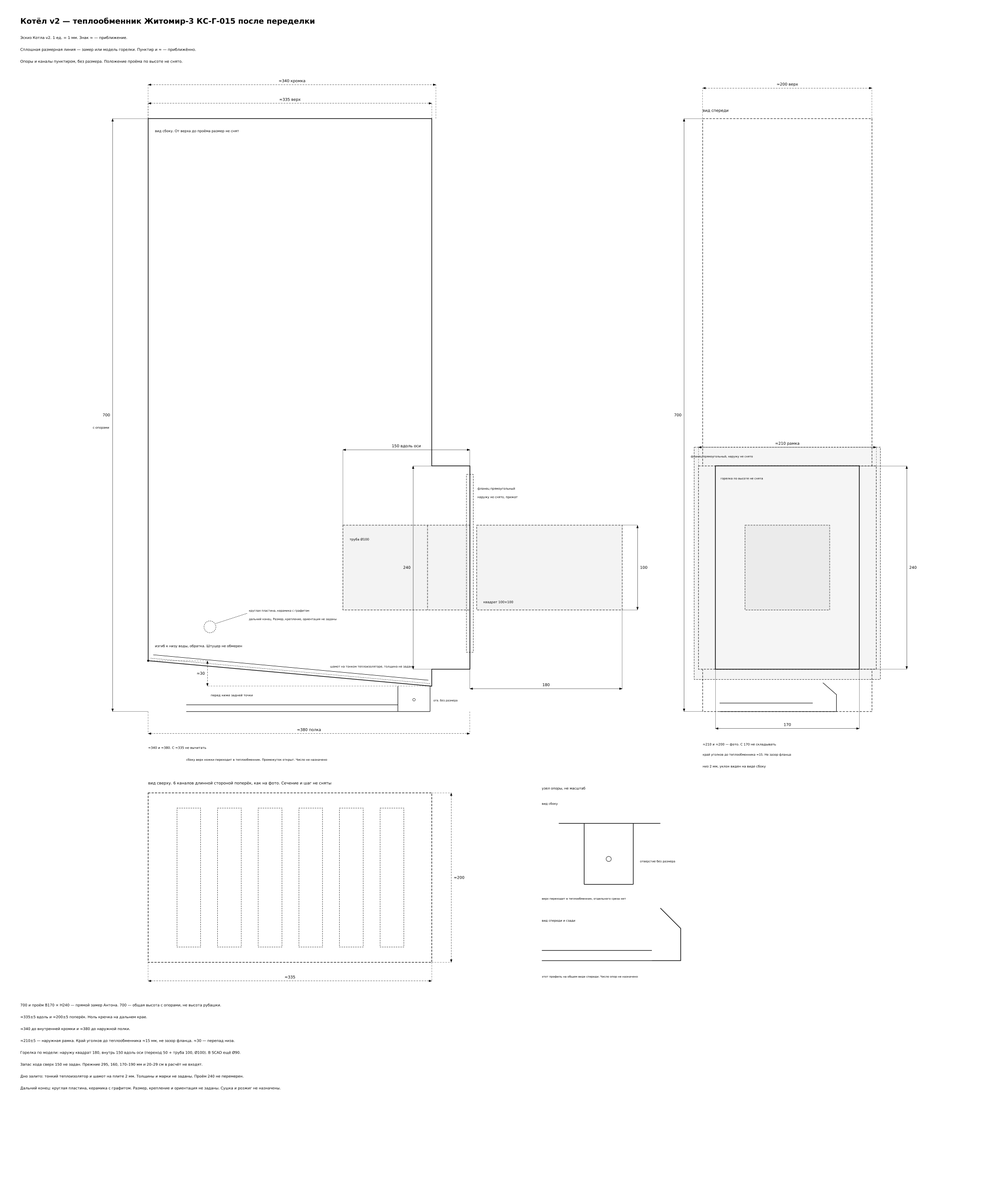
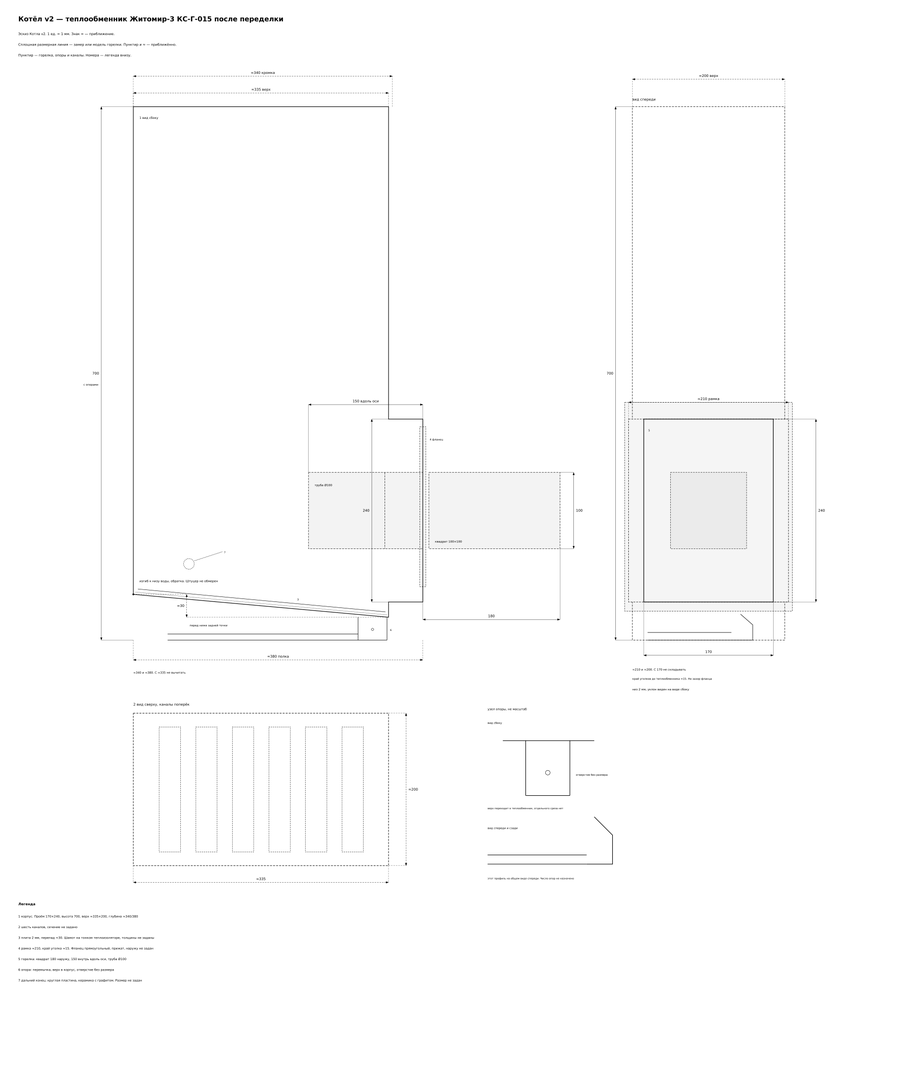
Котёл v2: в README только SVG с легендой, обмеры убраны.

diff --git a/blueprints/burner/README.md b/blueprints/burner/README.md
@@ -101,15 +101,17 @@
 
 ## Котёл v2
 
-Тот же котёл, что в списке сборки ниже: переделанный донор Житомир-3 КС-Г-015, не отдельный аппарат. Котёл v1 — кега. Донор куплен 22.10.2026. На фото переда горелка уже вставлена, два рычажных прижима стоят. Плита 4–6 мм, шнур и зазор 1–2 мм этим кадром не подтверждены. Проба 4 атм дала изгиб и течь швов; после пяти циклов до 2 атм с подваркой Антон сообщает герметичность. Что отмечено сделанным — только в [списке Котёл v2](#котёл-v2-1).
+Переделанный донор Житомир-3 КС-Г-015, не отдельный аппарат. Котёл v1 — кега. Куплен 22.10.2026.
 
-Актуальный вид переда: [фото](./photos/котел-перед.jpg). Это вставленная горелка под углом, не обмер. Два передних кадра без прижимов, рабочая ориентация: [сторона а](./photos/котел-сборка-без-прижимов-а.jpg), [сторона б](./photos/котел-сборка-без-прижимов-б.jpg). Это раньше крупного кадра с прижимами. Прежние фото: [котел-1](./photos/котел-1.jpg), [котел-2](./photos/котел-2.jpg). Таблица рулетки: [обмеры-котла-v2.md](./обмеры-котла-v2.md). Эскиз вида сбоку в стиле размерного листа горелки: [котел-v2-эскиз.svg](./котел-v2-эскиз.svg), превью [PNG](./котел-v2-эскиз.png). Горелка пунктиром в масштабе модели, фланец на плоскости рамки. На эскизе высота 700 мм, проём в свету 170×240 мм, верх ≈335×200, наружная рамка ≈210, глубина ≈340/380. Знак ≈ оставляет приближение. Прежние листы с оторванным корпусом не рабочие и в main не кладутся. Замеры в тексте ниже остаются заметками. Промежуточная сварка каркаса, теплообменник перевёрнут: [фото](./photos/котел-каркас-перевернут.jpg), [та же фотография в рабочей ориентации](./photos/котел-каркас-рабочая.jpg). Это не сборка с горелкой. Струбцина и стол не части котла.
+![Котёл v2](./котел-v2-эскиз.svg)
 
-Крышка **2 мм**: задний изгиб оригинала, сразу перед опорами, приварен к самой нижней части водяной рубашки, где вход холодной воды. Передняя часть ниже этого изгиба примерно на **30 мм** (со слов Антона). Длина ската не снята, угол не строится. Боковины приварены к рубашке. Рама проёма — уголок **25 мм**, в свету **170×240**. Низ и зад усилены тем же уголком. Ножки родные, спилены под углом, котёл стоит ровно. Передний проём в свету: **B = 170 мм**, **H = 240 мм** (прямой замер Антона), это ширина внутренней части. Общая высота с опорами **700 мм**, по фото ножек, не высота одной рубашки. Верх ≈335×200, глубина ≈340 до внутренней кромки и ≈380 до наружной полки, наружная рамка ≈210. Это размеры Антона, знак ≈ не отменяет их. Эти числа не вычитать. Прежние 295 мм, 170–190 мм и 20–29 см — ошибка чтения шкалы. Полки наружу: верх вверх, низ вниз, бока в стороны. Край уголков до теплообменника около **15 мм**. Это не зазор между фланцем и рамкой: фланец к рамке прижат. В ширину корпуса 15 мм не переводится.
+Проём в свету **170×240** мм, это ширина внутренней части. Общая высота с опорами **700** мм. Верх **≈335×200**, наружная рамка **≈210**, глубина **≈340** до внутренней кромки и **≈380** до наружной полки. Эти числа не складывать в толщину стенки. Низ — плита **2 мм**: задний изгиб у входа холодной воды, перед ниже примерно на **30 мм**. Боковины приварены к рубашке. Рама — уголок **25 мм**, полки наружу. Край уголков до теплообменника **≈15 мм**; фланец горелки прижат к рамке, это не зазор. Сверху шесть прямоугольных каналов, сечение и шаг не сняты.
 
-Низ уже залит: на плиту 2 мм лёг тонкий теплоизолятор и слой шамотной смеси. Толщины, марка смеси и тип изолятора не названы. Чистая высота проёма 240 мм после заливки не перемерена. В дальнем конце камеры поставлена круглая пластина из керамики с графитом. Её размер, толщина, крепление, ориентация и назначение не заданы; на тёмном дальнем крае фото это не читается. Это не проверенный жаровой экран. Сушка и допуск к розжигу не назначены. Фото этой стадии: [футеровка дна](./photos/футеровка-дно.jpg). Более ранние кадры котла сняты без этой заливки.
+Опоры — гнутый лист. Снизу перемычка, промежуток над ней открыт, верх листа переходит в теплообменник. На пластине отверстие без размера, число опор не назначено.
 
-Плоскость прижима фланца горелки совпадает с плоскостью уголковой рамки, без добавленного монтажного зазора. По модели [горизонталка.scad](./горизонталка.scad) эта плоскость — торец z = 0: квадрат **100×100** длиной **180 мм** лежит снаружи (z от 0 до −180), переход **50 мм** и круглая труба длиной **100 мм** уходят внутрь. Итого от рамки наружу **180 мм**, внутрь **150 мм**. На листе [горизонталка_номера.svg](./горизонталка_номера.svg) вставка v2: квадрат 100×100 и труба **Ø100**; в SCAD диаметр круглой трубы ещё Ø90, длина не переподписана. **176 мм** на [горизонталка_размеры.svg](./горизонталка_размеры.svg) — развёртка внутреннего профиля, не длина горелки. Крепление переделано: фланец теперь прямоугольный и прижат к рамке. Наружные размеры нового фланца не заданы, 170×240 — это чистый проём, не фланец. Прежний круг Ø250×8 в модели горелки к этой посадке не относится. Ход извлечения по оси — не меньше заходящих **150 мм**. Технологический запас сверх этого не задан числом. Шнур, если он есть, имеет неизвестную толщину и не отменяет металлическую глубину вставки.
+Горелка на эскизе пунктиром, фланец в плоскости рамки. От фланца наружу квадрат **100×100** длиной **180 мм**, внутрь **150 мм** вдоль оси: переход 50 мм и труба **Ø100** длиной 100 мм. В SCAD диаметр трубы ещё Ø90. Фланец прямоугольный, наружный размер не задан. **170×240** — проём, не фланец. Плита 4–6 мм, шнур и зазор 1–2 мм не стоят.
+
+Низ залит: на плиту 2 мм тонкий теплоизолятор и шамот. Толщины и марки не названы, проём 240 после заливки не перемеривался. В дальнем конце круглая пластина из керамики с графитом. Размер, крепление и ориентация не заданы. Это не проверенный жаровой экран.
 
 ### Каналы теплообменника
 
@@ -312,15 +314,6 @@
     <br clear="right">
 </p>
 
-**Котёл v2**, перед с вставленной горелкой. Описание — в разделе [Котёл v2](#котёл-v2).
-
-![Котёл v2, перед под углом](./photos/котел-перед.jpg)
-
-<p>
-    <img src="./photos/котел-1.jpg" alt="Котёл v2, более раннее фото" width="33%" />
-    <img src="./photos/котел-2.jpg" alt="Котёл v2, более раннее фото" width="33%" />
-</p>
-
 ### Горелка
 
 - [x] Пластины вставки
@@ -371,10 +364,10 @@
 - [x] Рама проёма: уголок 25 мм, в свету 170×240
 - [x] Край уголков до теплообменника ≈15 мм. Не зазор фланца. В габарит корпуса не переведён
 - [x] Низ и зад усилены уголком 25 мм
-- [x] Опоры: гнутый лист, снизу перемычка, промежуток открыт, на пластине отверстие без размера. Число не назначено. Фото [перемычка](./photos/ножка-перемычка.jpg), [пластина](./photos/ножка-пластина.jpg)
+- [x] Опоры: гнутый лист, снизу перемычка, промежуток открыт, верх переходит в теплообменник. Отверстие без размера. Число не назначено
 - [x] Передний проём в свету B = 170 мм, H = 240 мм. Общая высота 700 мм с опорами
-- [x] Горелка вставлена в перед, два рычажных прижима с красными рукоятками стоят ([фото](./photos/котел-перед.jpg))
-- [ ] Плита 4–6 мм, печной шнур, зазор 1–2 мм этим фото не подтверждены
+- [x] Горелка вставлена в перед, два рычажных прижима стоят
+- [ ] Плита 4–6 мм, печной шнур, зазор 1–2 мм
 - [x] После пробы 4 атм (изгиб спереди, швы сочились; перед и зад не гнулись) пять циклов до 2 атм с подваркой. По сообщению Антона итог герметичен
 - [ ] Оценка прочности после деформации на 4 атм. Герметичность на 2 атм её не заменяет и не допуск к розжигу
 - [x] Шесть прямоугольных каналов видны сверху. Сечение и шаг не сняты

diff --git a/blueprints/boiler-cabinet/README.md b/blueprints/boiler-cabinet/README.md
@@ -2,13 +2,13 @@
 
 Предварительная компоновка шкафа для [Котла v2](../burner/README.md#котёл-v2): тот же переделанный Житомир-3 КС-Г-015, не другой котёл. Не обмер и не подтверждение, что всё помещается.
 
-Чертёж: [SVG](./компоновка.svg), [PNG](./компоновка.png).
+Чертёж: [SVG](./компоновка.svg).
 
 ![Компоновка шкафа](./компоновка.svg)
 
 ## Габариты, не окончательные
 
-Рамка на чертеже в пропорции 1000×1500 и план 1000×400. Оборудование внутри без масштаба. 07.11.2026, со слов Антона: ширина около **1000 мм**, глубина около **400 мм**, высота около **1500 мм**. Котёл ставится **боком** к фасаду: горелка ставится и вынимается сбоку. Ход извлечения на чертеже без числа, его надо замерить.
+Рамка на чертеже в пропорции 1000×1500 и план 1000×400. Оборудование внутри без масштаба. 07.11.2026, со слов Антона: ширина около **1000 мм**, глубина около **400 мм**, высота около **1500 мм**. Котёл ставится **боком** к фасаду: горелка ставится и вынимается сбоку. Ход извлечения горелки по оси не меньше 150 мм от фланца. Запас сверх этого не задан.
 
 Прежнее сравнение «паспортная глубина котла 500 и 530 мм больше 400» относилось к постановке фронтом к фасаду. При боковой постановке в глубину шкафа смотрит **ширина** котла, а длина корпуса, вылет горелки и ход извлечения ложатся вдоль ширины около 1000 мм. Каталог КС-Г-015СН даёт ширину Б 280 мм. У этого котла прямой замер — проём 170 мм, не ширина корпуса. Верх котла ≈200, наружная рамка ≈210. Полки и патрубки шире. **400 мм достаточными не считаются.**
 
@@ -23,12 +23,9 @@
 - Коробка электроники — отдельно от горячих поверхностей, труб и возможных протечек. Размер не снят.
 - Насос давления топлива на форсунку, циркуляционный насос и вентилятор воздуха горения остаются в составе. Их размеры не сняты.
 
-## Что снять до утверждения глубины
+## Что ещё не задано
 
-- Ширина, глубина и высота котла после переделки, с ногами и наклонной крышкой.
-- Повторный обмер горелки не нужен. От плоскости фланца, по горизонталка.scad и подписи v2: наружу квадрат 100×100 на 180 мм, внутрь переход 50 мм и труба 100 мм, всего 150 мм. Ход съёма по оси не меньше этих 150 мм. Запас руки не назначен. Неизвестна только толщина шнура, если он стоит между фланцем и рамкой.
-- Насколько полки уголка и патрубки выступают за корпус.
-- Входит ли фактическая ширина в глубину около 400 мм вместе с зазором у стенок.
-- Укладываются ли котёл, горелка и ход в ширину около 1000 мм.
+- Насколько патрубки выступают за корпус и входят ли верх ≈200 и рамка ≈210 в глубину около 400 мм.
+- Укладываются ли котёл, горелка и ход от 150 мм в ширину около 1000 мм.
 - Места двух кранов и поворота в стену.
 - Габариты бака, отопителя, коробки, насосов, вентилятора и малого бака.

diff --git a/todo.md b/todo.md
@@ -23,12 +23,11 @@
 - [ ] **[Котёл v2](blueprints/burner/README.md#котёл-v2)** — донор Житомир-3 КС-Г-015, не отдельный котёл
   - [x] Купить донора (22.10.2026)
   - [x] Крышка 2 мм: задний изгиб к низу воды у обратки, перед ниже ≈30 мм. Угол не строится. Боковины приварены. Проём 170×240 из уголка 25, низ и зад усилены
-  - [x] Край уголков до теплообменника ≈15 мм. Не зазор фланца. В габарит корпуса не переводить
+  - [x] Край уголков до теплообменника ≈15 мм. Фланец к рамке прижат
   - [x] Передний проём в свету B = 170 мм, H = 240 мм. Общая высота 700 мм с опорами
-  - [x] Опоры по фото «Ножка»: гнутый лист, перемычка, открытый промежуток, отверстие без размера. Число не назначено
-  - [x] [Вид переда с горелкой](blueprints/burner/photos/котел-перед.jpg): горелка вставлена, два рычажных прижима стоят
-  - [x] [Сварка каркаса, теплообменник перевёрнут](blueprints/burner/photos/котел-каркас-перевернут.jpg): не текущая сборка
-  - [ ] Плита 4–6 мм, шнур и зазор 1–2 мм на этом фото не подтверждены
+  - [x] Опоры: гнутый лист, перемычка, открытый промежуток, верх в теплообменник. Отверстие без размера
+  - [x] Горелка вставлена в перед, два рычажных прижима стоят
+  - [ ] Плита 4–6 мм, шнур и зазор 1–2 мм
   - [x] [Эскиз](blueprints/burner/котел-v2-эскиз.svg): проём 170×240, высота 700, верх ≈335×200, рамка ≈210, глубина ≈340/380
   - [x] После пробы 4 атм (изгиб спереди, швы сочились) пять циклов до 2 атм с подваркой. По сообщению Антона итог герметичен
   - [ ] Оценка прочности после деформации на 4 атм. Герметичность на 2 атм её не заменяет и не допуск к розжигу
